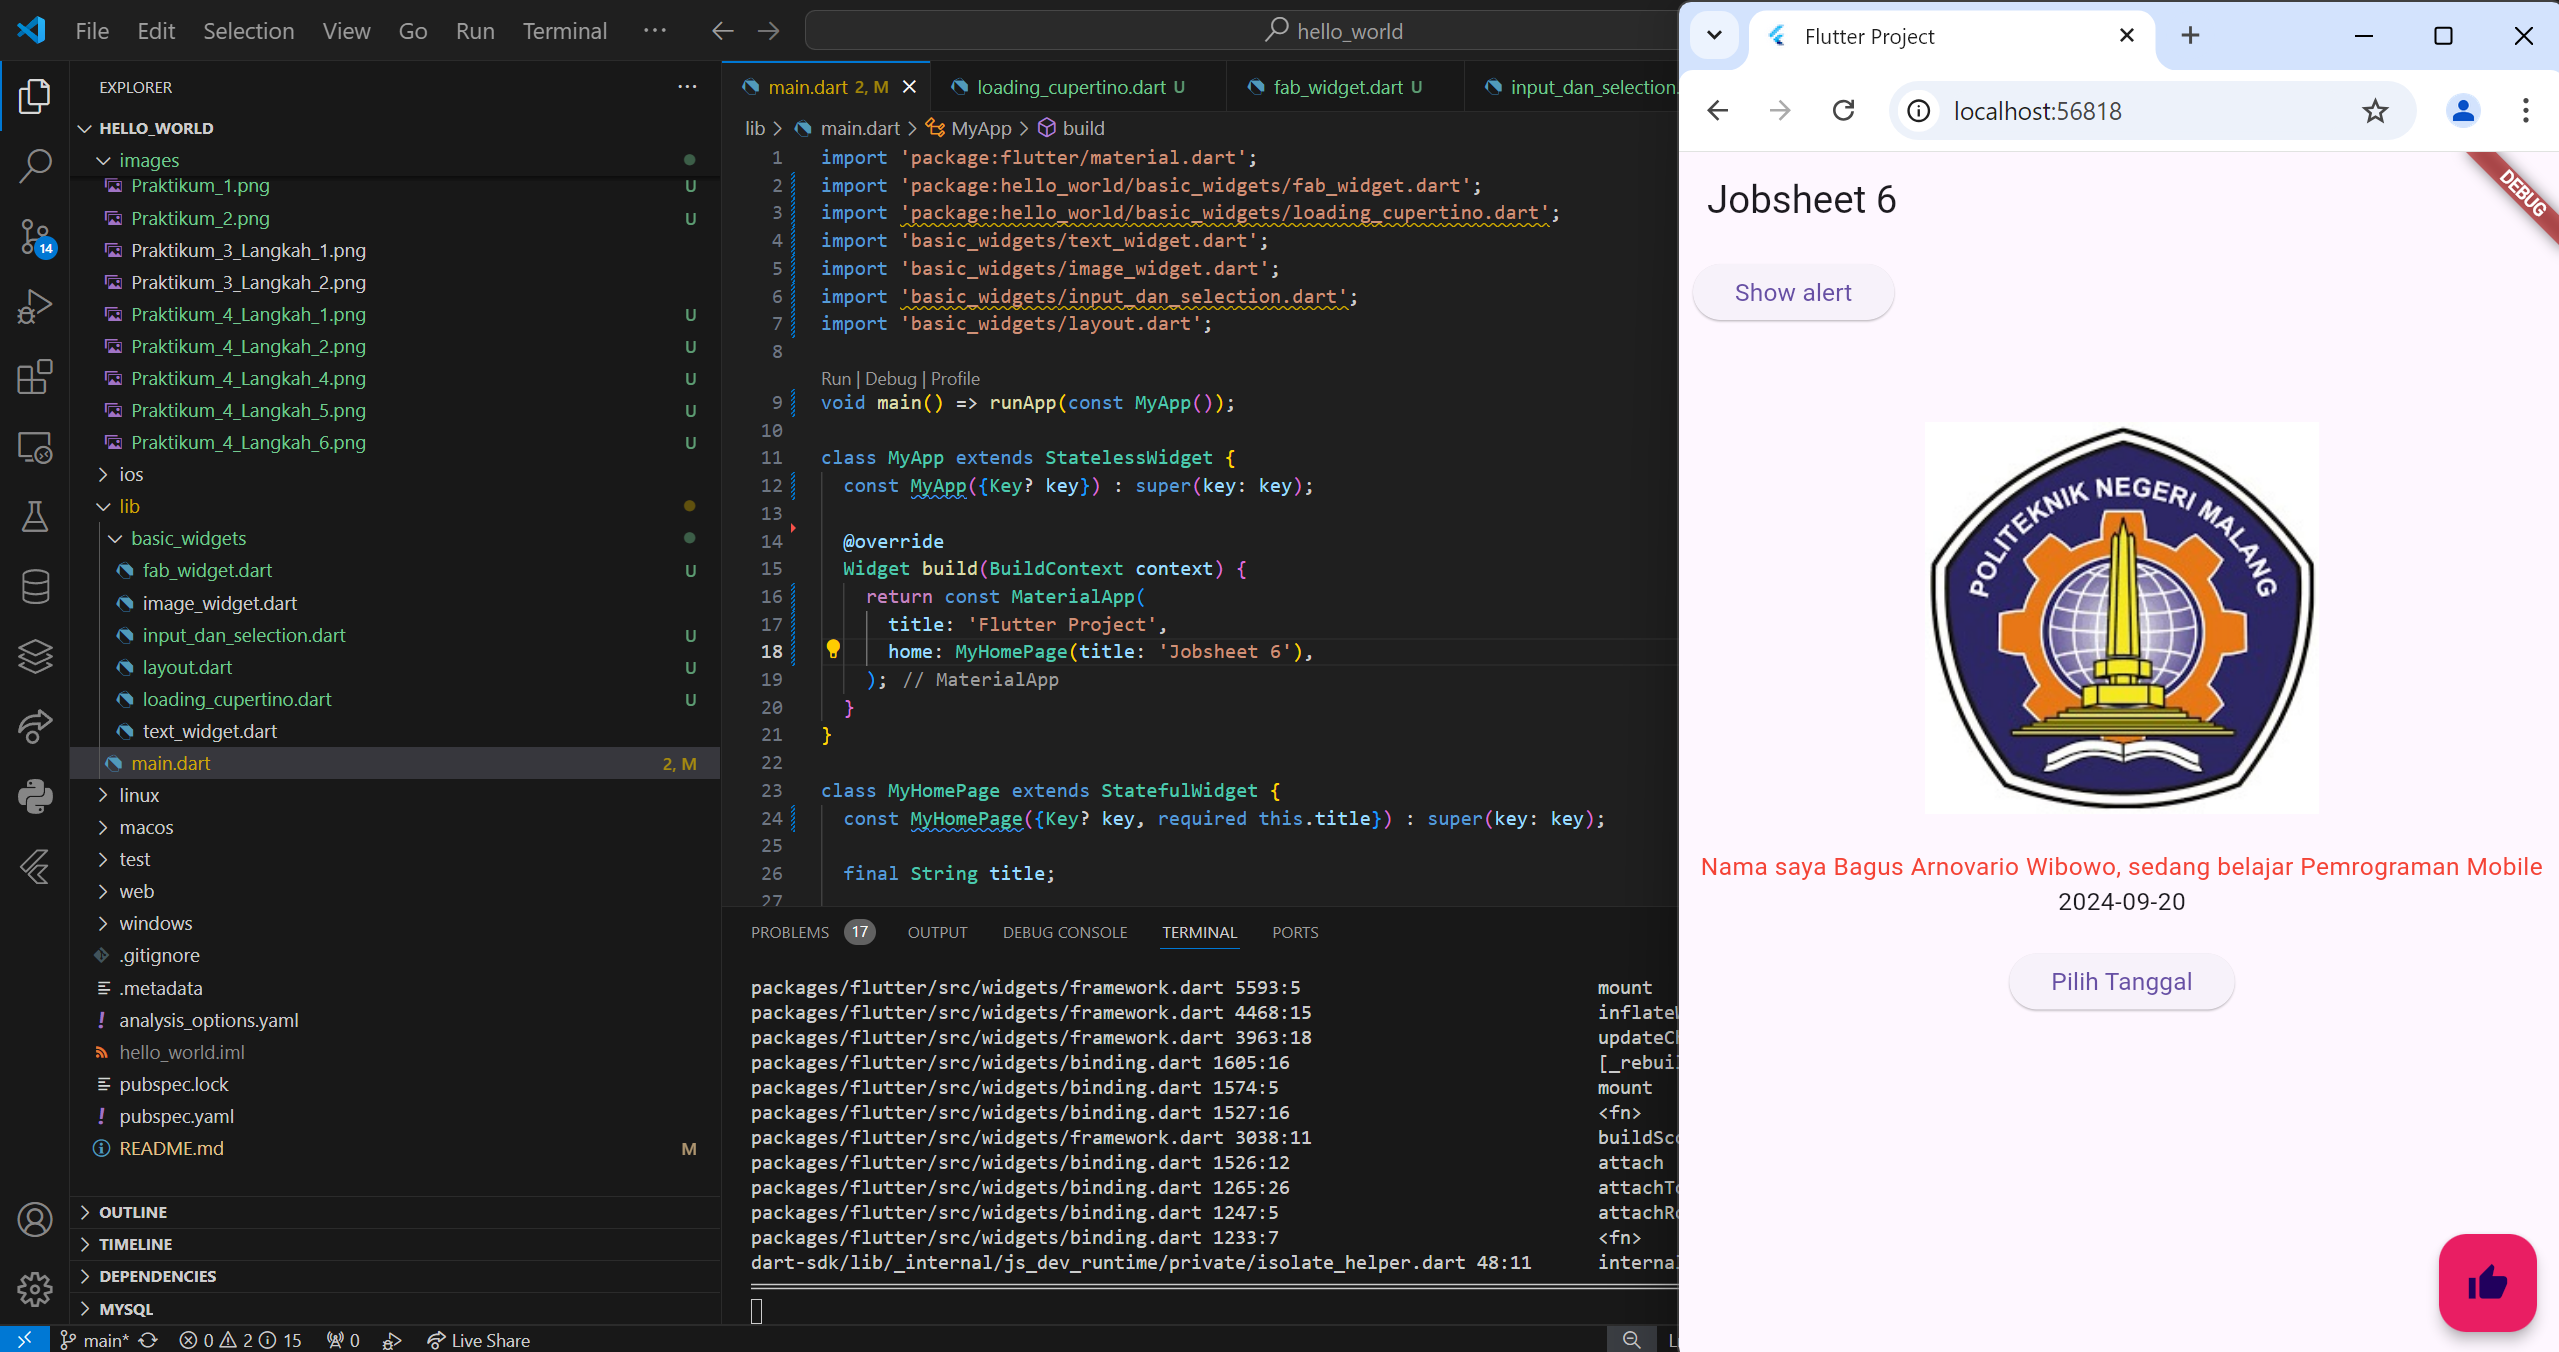
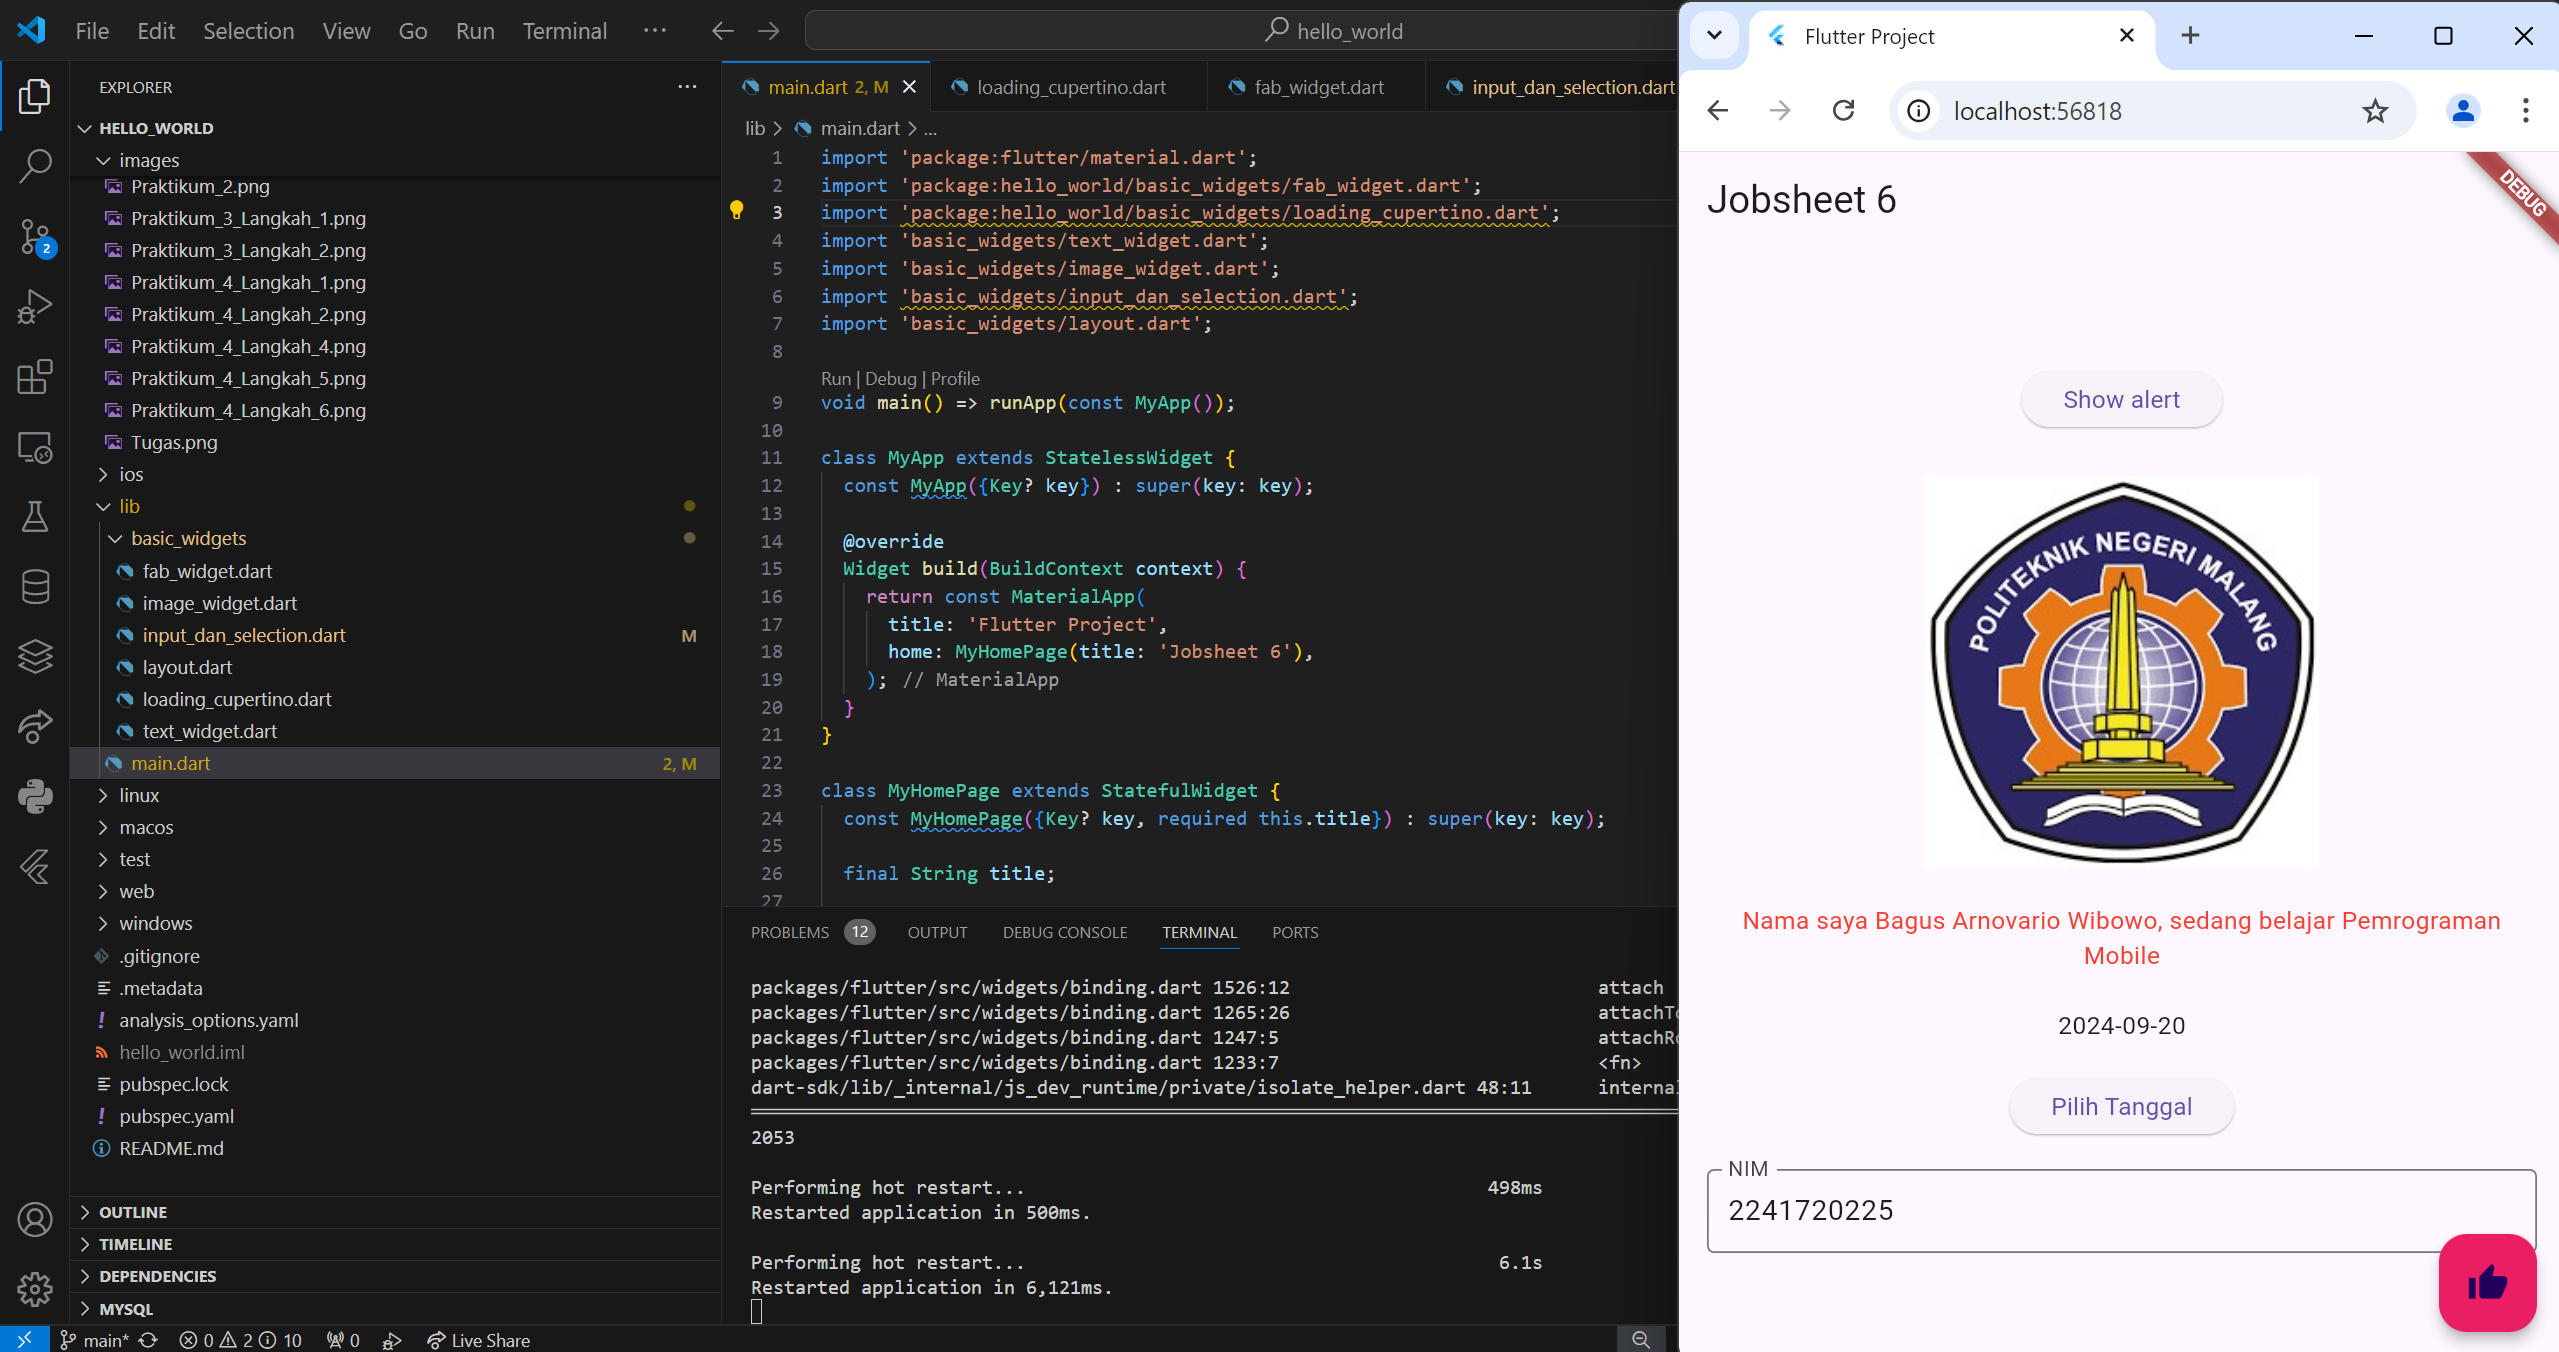
Update

diff --git a/Jobsheet 6/hello_world/lib/main.dart b/Jobsheet 6/hello_world/lib/main.dart
@@ -4,7 +4,7 @@ import 'package:hello_world/basic_widgets/loading_cupertino.dart';
 import 'basic_widgets/text_widget.dart';
 import 'basic_widgets/image_widget.dart';
 import 'basic_widgets/input_dan_selection.dart';
-import 'basic_widgets/layout.dart';
+import 'basic_widgets/dialog_widget.dart';
 
 void main() => runApp(const MyApp());
 
@@ -30,12 +30,9 @@ class MyHomePage extends StatefulWidget {
 }
 
 class _MyHomePageState extends State<MyHomePage> {
-  // Variable/State untuk mengambil tanggal
   DateTime selectedDate = DateTime.now();
 
-  //  Initial SelectDate FLutter
   Future<void> _selectDate(BuildContext context) async {
-    // Initial DateTime FIinal Picked
     final DateTime? picked = await showDatePicker(
         context: context,
         initialDate: selectedDate,
@@ -55,53 +52,42 @@ class _MyHomePageState extends State<MyHomePage> {
         title: Text(widget.title),
       ),
       body: Container(
-        child: Expanded(
-          child: Column(
-            children: [
-              Row(
-                children: [
-                  MyLayout(),
-                ],
-              ),
-              Column(
-                mainAxisAlignment: MainAxisAlignment.center,
-                children: [
-                  SizedBox(
-                    height: 50.0,
-                  ),
-                  Center(
-                    child: Column(
-                      mainAxisSize: MainAxisSize.min,
-                      children: <Widget>[
-                        MyImageWidget(),
-                        SizedBox(
-                          height: 20.0,
-                        ),
-                        MyTextWidget(),
-                        Text("${selectedDate.toLocal()}".split(' ')[0]),
-                        const SizedBox(
-                          height: 20.0,
-                        ),
-                        ElevatedButton(
-                          onPressed: () => {
-                            _selectDate(context),
-                            // ignore: avoid_print
-                            print(selectedDate.day +
-                                selectedDate.month +
-                                selectedDate.year)
-                          },
-                          child: const Text('Pilih Tanggal'),
-                        ),
-                      ],
-                    ),
-                  ),
-                ],
-              ),
-            ],
-          ),
+        padding: const EdgeInsets.all(16.0),
+        child: Column(
+          mainAxisAlignment: MainAxisAlignment.center, // Pusatkan isi
+          children: [
+            MyLayout(),
+            const SizedBox(height: 20.0),
+            MyImageWidget(),
+            const SizedBox(height: 20.0),
+            MyTextWidget(),
+            const SizedBox(height: 20.0),
+            Text("${selectedDate.toLocal()}".split(' ')[0]),
+            const SizedBox(height: 20.0),
+            ElevatedButton(
+              onPressed: () => _selectDate(context),
+              child: const Text('Pilih Tanggal'),
+            ),
+            const SizedBox(height: 20.0),
+            const InputSelection(),
+          ],
         ),
       ),
       floatingActionButton: FabWidget(),
+    );
+  }
+}
+
+class InputSelection extends StatelessWidget {
+  const InputSelection({super.key});
+
+  @override
+  Widget build(BuildContext context) {
+    return const TextField(
+      decoration: InputDecoration(
+        border: OutlineInputBorder(),
+        labelText: 'NIM',
+      ),
     );
   }
 }

diff --git a/Jobsheet 6/hello_world/lib/basic_widgets/input_dan_selection.dart b/Jobsheet 6/hello_world/lib/basic_widgets/input_dan_selection.dart
@@ -9,7 +9,7 @@ class InputSelection extends StatelessWidget {
       obscureText: false,
       decoration: InputDecoration(
         border: OutlineInputBorder(),
-        labelText: 'Nama',
+        labelText: 'NIM',
       ),
     );
   }
